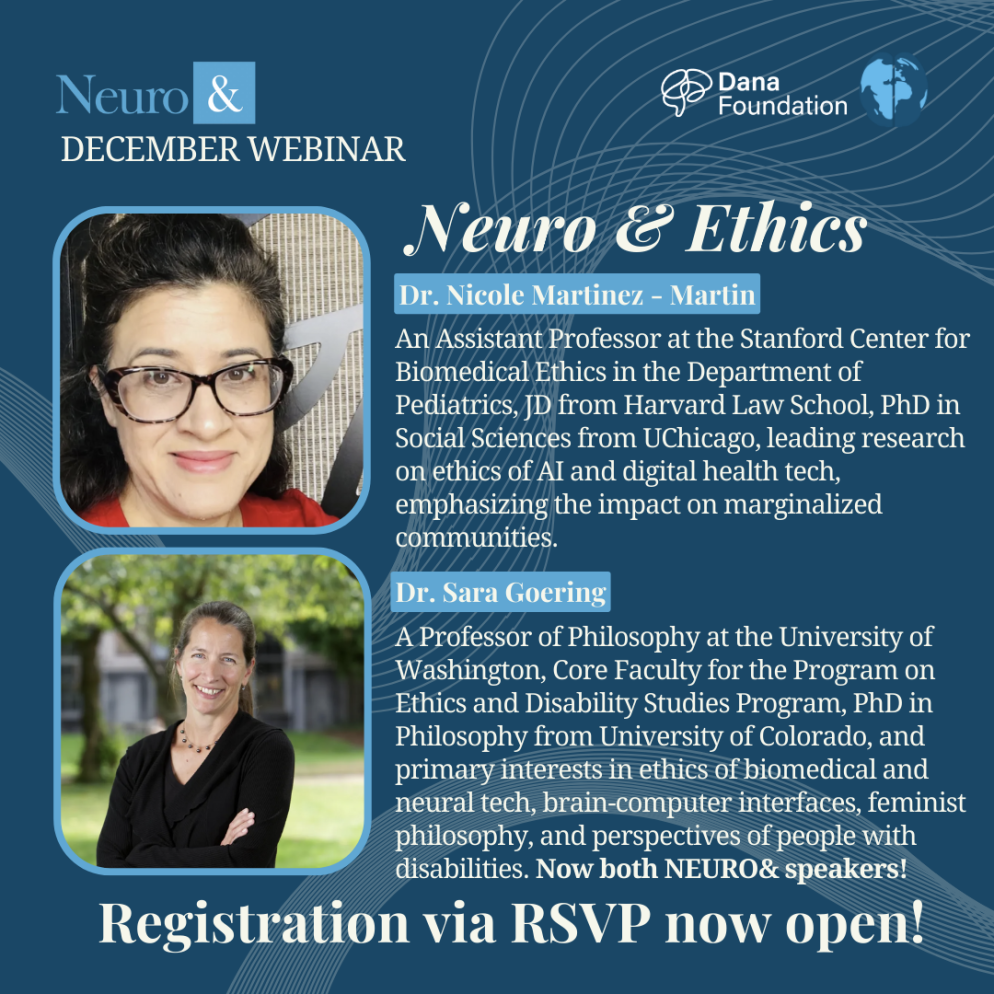
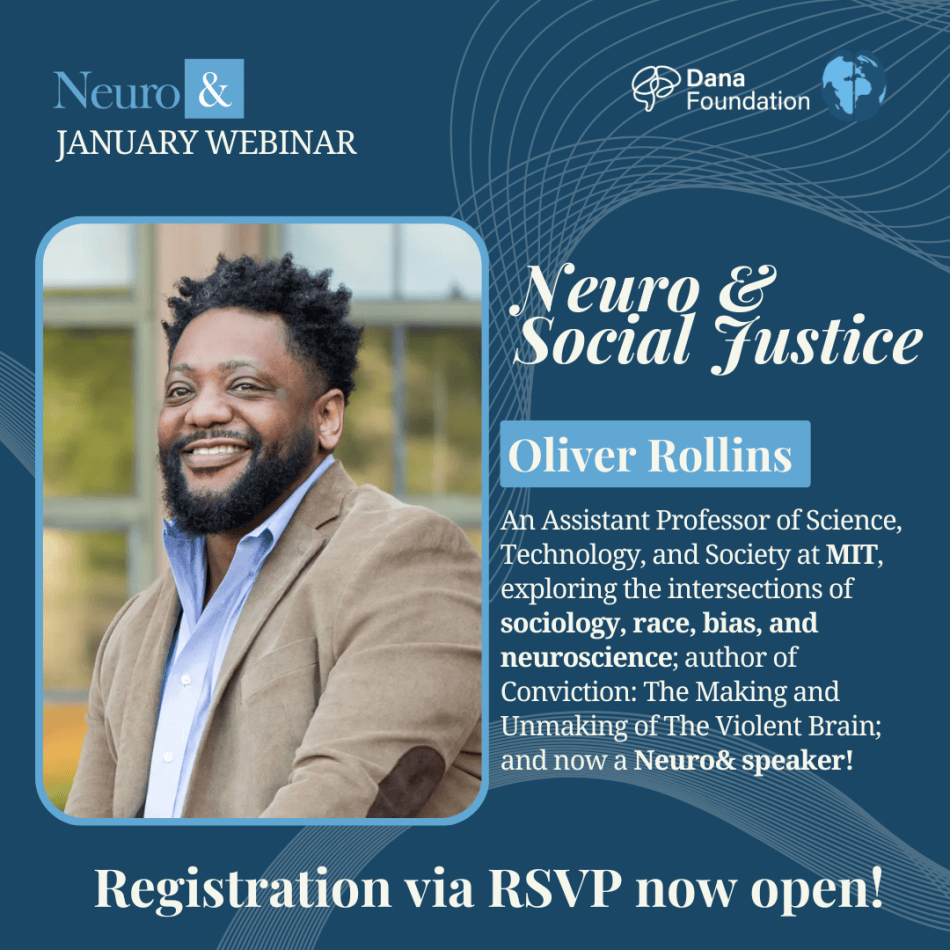
update

diff --git a/src/neuroand.html b/src/neuroand.html
@@ -471,7 +471,7 @@
       
       <div class="neuro-container02">
         <h1 class="neuro-text027">
-          <span>Upcoming Event: Neuro&Ethics with Nicole Martinez-Martin and Sara Goering </span>
+          <span>Upcoming Event: Neuro&SocialJustice with Oliver Rollins</span>
           <br />
           <br>
           <br>
@@ -484,23 +484,23 @@
         <span class="neuro-text030">
           <br>
           <span>
-            Curious about brain privacy in the age of AI? Interested in how emerging technologies are reshaping the future of ethical brain research? Dive into the fascinating field of NEUROETHICS this December with TWO distinguished speakers! 
+            Curious about the intersection of neuroscience and social justice? Join us this January for <b>Neuro&SocialJustice</b> with Oliver Rollins! Dr. Rollins is an Assistant Professor of Science, Technology, and Society at MIT. His current research explores the legacies of scientific racism, the influence of race on neuroscience, and how neuroscience can engage with social justice, including DEI initiatives and policy recommendations. His book, Conviction: The Making and Unmaking of The Violent Brain, examines the evolution of neuroimaging research on anti-social behavior, along with its limitations and implications for social equality. 
             <br>
             <br>
-            The Neuro& team is thrilled to announce the highly anticipated webinar featuring the field of Neuroethics this December! We are continuing the panel format with Nicole Martinez-Martin and Sara Goering. Dr. Martinez is an Assistant Professor at Stanford, and her research examines the ethics of AI and big data practices in healthcare. Dr. Goering is a Professor at the University of Washington, and her work centers on bioethics, philosophy, and feminism. In this session, Dr. Martinez and Dr. Goering will each be sharing their personal career experiences at the intersection of neuroscience, ethics, and policy. Together, they will discuss the protection of brain data, an increasingly critical issue, and offer valuable advice for students interested in this dynamic field. Participants will also be able to ask any questions in a live Q&A session. Don’t miss this chance to interact with these incredible speakers and get your questions answered! 
+            This is an incredible opportunity to explore the intersections of race, sociology, policy, and neuroscience. Participation will also count towards eligibility for the <b>Neuro& Careers Certificate</b>. IYNA Chapter members will earn points by attending and engaging in the webinar. 
             <br>
             <br>
             📍WHERE: Zoom (virtual meeting)
             <br>
-            🗓WHEN: Saturday, December 14th | 12-1:30 PM EST
+            🗓WHEN: Sunday, January 12th | 12-1:30 PM EST
           </span>
-        </span>
+        </span>        
         <img
           alt="QR Code for Neuro& Ethics Event"
           src="QR.png"
           style="display: block; margin: 20px auto; max-width: 150px; height: auto;"
         />
-        <a href="https://forms.gle/xUHbbfnjHi3MBTCs6"
+        <a href="https://forms.gle/XYTbHAWxpoBAVLPX7"
            target="_blank"
            rel="noreferrer noopener"
            class="neuro-link button"
